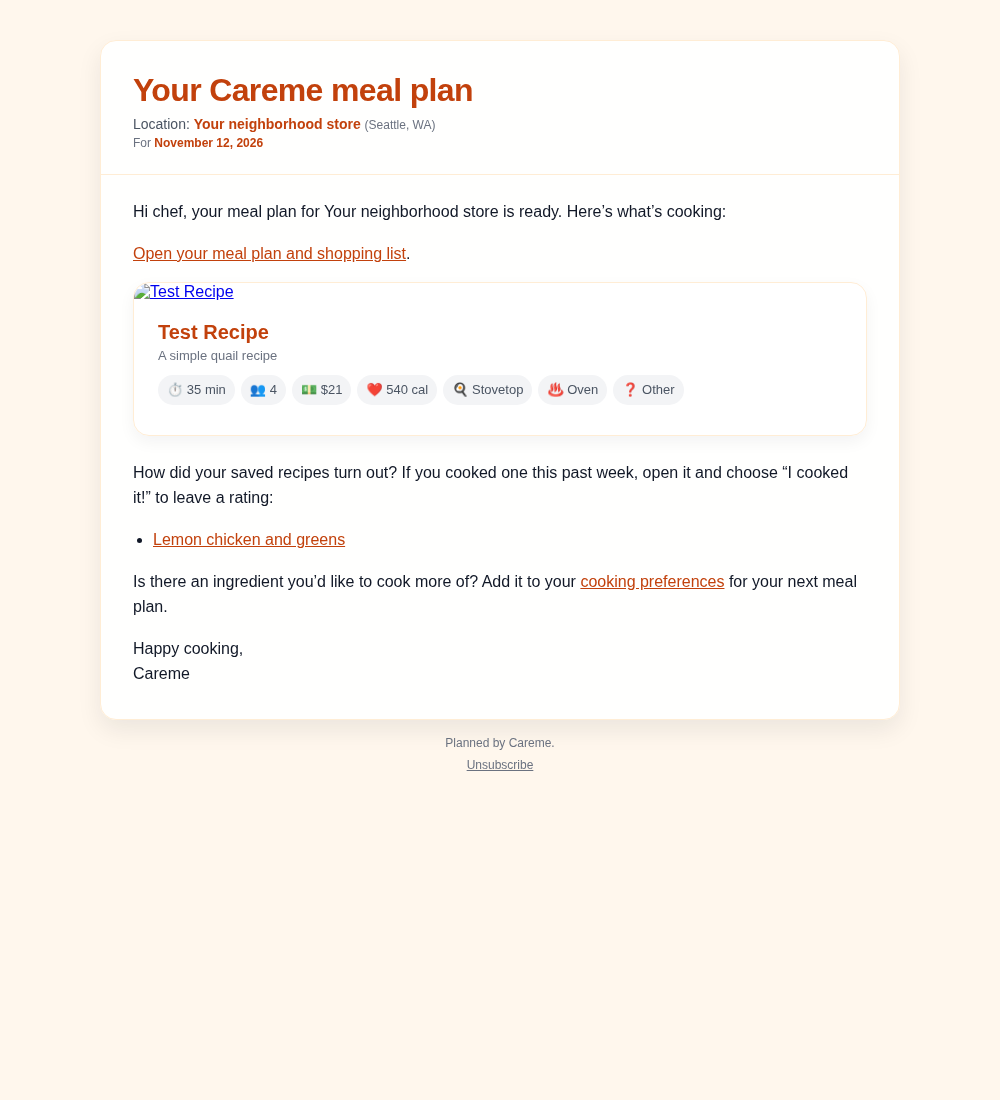
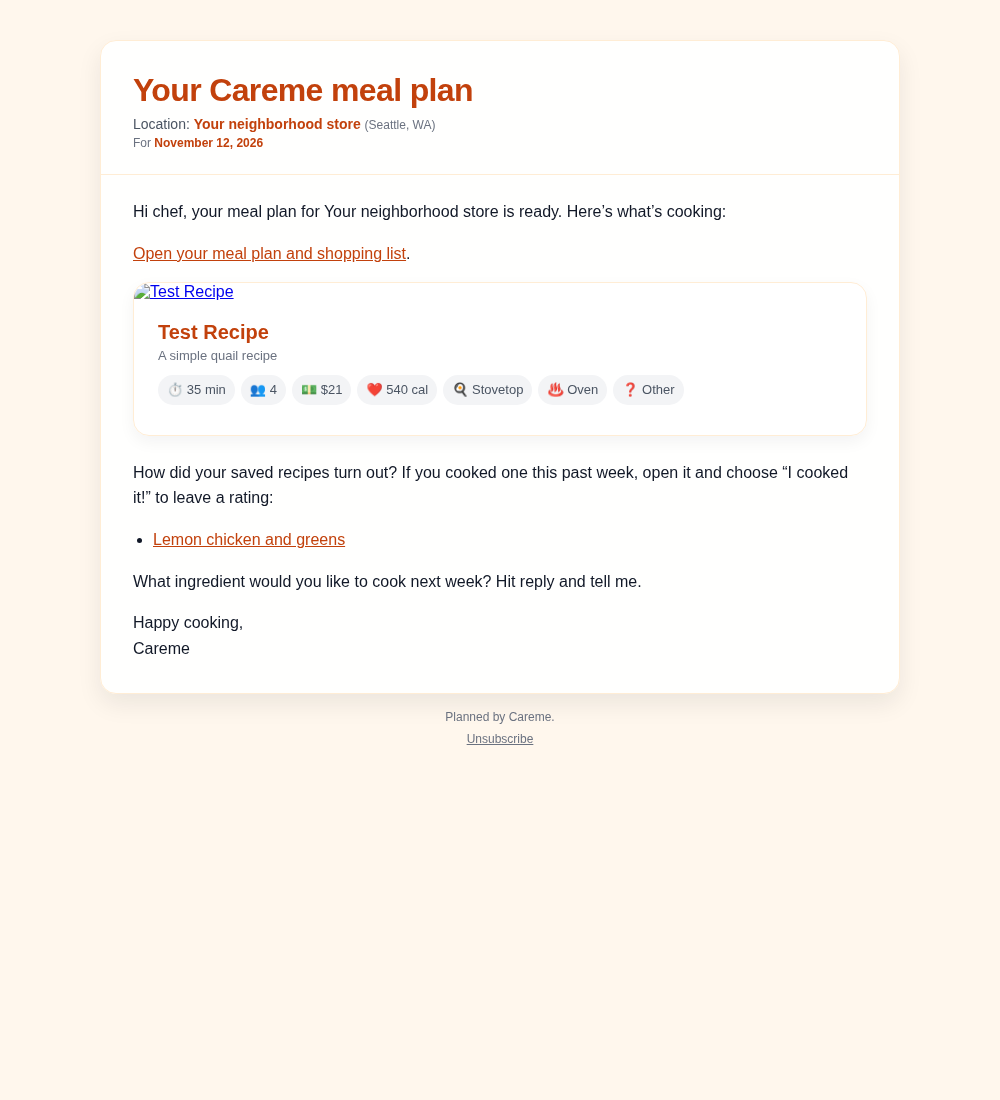
Invite ingredient requests by replying to recipe emails

Changed region(s): [[0.093, 0.5255, 0.899, 0.7109]]

diff --git a/internal/templates/mail.html b/internal/templates/mail.html
@@ -60,7 +60,7 @@
             {{end}}
           </ul>
           {{end}}
-          <p style="margin:16px 0 0; line-height:1.6;">Is there an ingredient you’d like to cook more of? Add it to your <a href="{{.Domain}}/user#directive" style="color:{{.Style.Colors.C700}};">cooking preferences</a> for your next meal plan.</p>
+          <p style="margin:16px 0 0; line-height:1.6;">What ingredient would you like to cook next week? Hit reply and tell me.</p>
           <p style="margin:16px 0 0; line-height:1.6;">Happy cooking,<br />Careme</p>
         </div>
       </div>

diff --git a/internal/recipes/mail_view_test.go b/internal/recipes/mail_view_test.go
@@ -59,7 +59,7 @@ func TestMailPromptsForRecentlySavedRecipes(t *testing.T) {
 				var buf bytes.Buffer
 				require.NoError(t, format.render(p, list, "https://careme.cooking", options, &buf))
 				body := buf.String()
-				for _, want := range []string{"Your Careme meal plan", "November 12, 2026", "My Store", "Test Recipe", "A simple quail recipe", "35 min", "$21", "540 cal", "https://careme.cooking/recipe/" + list.Recipes[0].ComputeHash(), "https://careme.cooking/recipes?h=" + p.Hash(), "https://careme.cooking/user#directive", "Unsubscribe"} {
+				for _, want := range []string{"Your Careme meal plan", "November 12, 2026", "My Store", "Test Recipe", "A simple quail recipe", "35 min", "$21", "540 cal", "https://careme.cooking/recipe/" + list.Recipes[0].ComputeHash(), "https://careme.cooking/recipes?h=" + p.Hash(), "What ingredient would you like to cook next week? Hit reply and tell me.", "Unsubscribe"} {
 					assert.Contains(t, body, want)
 				}
 				if hasSaved {
